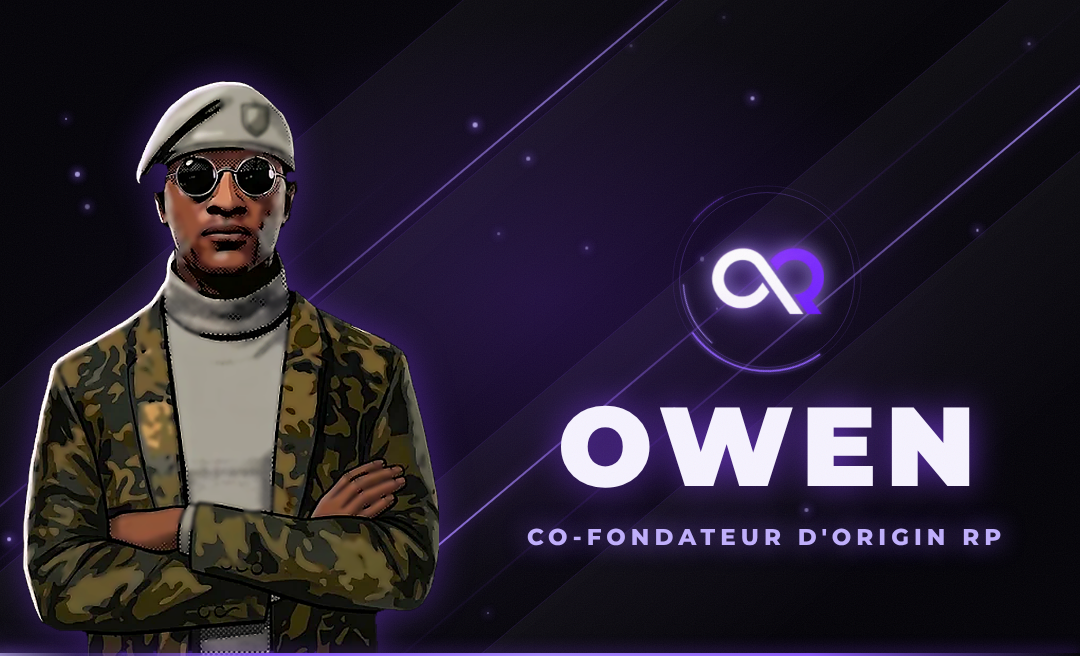
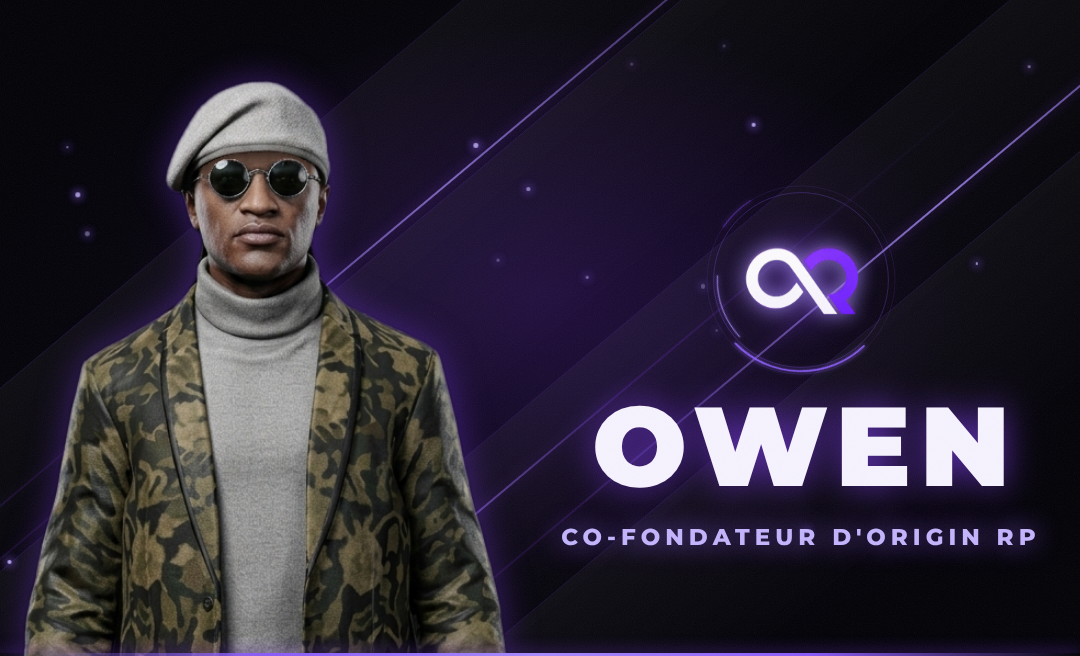
Kit stream : retour de la capture 3D d'Owen dans sa bannière
Le personnage de la bannière redevient la capture 3D en costume camouflage
(détourée, front et béret retouchés). L'illustration reste disponible
avec perso=owen-illustration.png. Export PNG mis à jour.

Claude-Session: https://claude.ai/code/session_01KCV1FGWnoVjyFbA24gvaBP

diff --git a/originrp_stream/README.md b/originrp_stream/README.md
@@ -70,7 +70,7 @@ au chargement (≈ 2 s), puis reflet sur le pseudo, lumière qui court sur le fi
 anneaux du logo qui tournent et particules. `&intro=0` affiche directement le visuel sans l'entrée.
 
 Owen : `tiktok/banniere-haut.html?nom=Owen&role=Co-fondateur d'Origin RP&perso=owen.png`.
-Le personnage d'Owen (`commun/persos/owen.png`) est une illustration dans le style de Malou, légèrement plus proche du style GTA ; la capture 3D d'origine est gardée : `perso=owen-render.png`.
+Le personnage d'Owen (`commun/persos/owen.png`) est sa capture 3D en costume camouflage, détourée et retouchée ; la version illustrée est gardée : `perso=owen-illustration.png`.
 Simba : `tiktok/banniere-haut.html?nom=Simba&role=Fondateur d'Origin RP&perso=simba.png` (ancienne capture 3D : `perso=simba-render.png`).
 Équipe de communication : `tiktok/banniere-haut.html?nom=OriginRP&role=Équipe de communication OriginRP&perso=communication.png` (première version : `perso=communication-v1.png`).
 Un pseudo ou un poste trop long est réduit automatiquement pour tenir sur une ligne.
